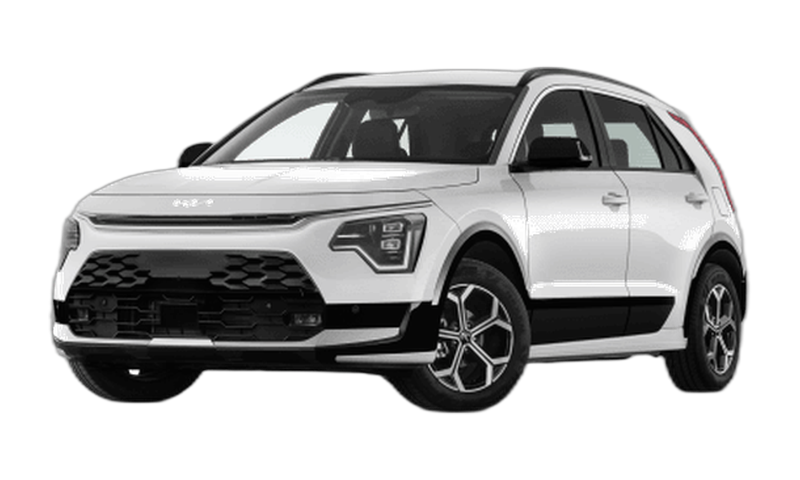
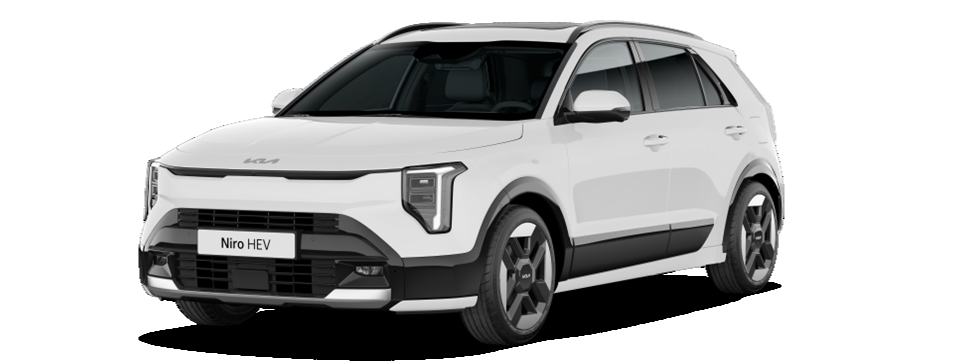
Landing Kia Niro HEV (oferta especial) con geobloqueo de Barcelona
- renting-kia-niro.html: matriz de cuotas real (IVA incluido), desde 340€/mes,
  foto del Niro HEV, servicios/ventajas, formulario a mtiagconsulting + WhatsApp
- functions/_middleware.js: bloquea la ficha para visitantes del area de
  Barcelona (Barcelones) via Cloudflare Pages Function; resto de España la ve
- Chip 'IVA incluido' en la tarjeta de precio
- Añadida al sitemap

Claude-Session: https://claude.ai/code/session_019TT5qAbRHVq3ySjbsjyFmR

diff --git a/renting-kia-niro.html b/renting-kia-niro.html
@@ -1,0 +1,142 @@
+<!DOCTYPE html>
+<html lang="es">
+<head>
+<meta charset="UTF-8">
+<meta name="viewport" content="width=device-width, initial-scale=1.0">
+<link rel="icon" href="/favicon.ico" sizes="any"><link rel="icon" type="image/svg+xml" href="/favicon.svg"><link rel="apple-touch-icon" href="/favicon.png">
+<title>Renting Kia Niro HEV desde 340€/mes — Oferta especial | MyRenting</title>
+<meta name="description" content="Oferta especial de renting del Kia Niro HEV desde 340€/mes (IVA incluido), todo incluido y sin entrada: seguro sin franquicia, mantenimiento, impuestos y asistencia. Entrega en toda España.">
+<meta name="robots" content="index, follow">
+<link rel="canonical" href="https://myrenting.es/renting-kia-niro.html">
+<meta property="og:title" content="Renting Kia Niro — Oferta especial | MyRenting">
+<meta property="og:description" content="Oferta especial de renting del Kia Niro, todo incluido y sin entrada. Entrega en toda España.">
+<meta property="og:type" content="website">
+<!-- PRICE-SCHEMA: actualizar lowPrice cuando haya precios -->
+<script type="application/ld+json">{"@context":"https://schema.org","@type":"Product","name":"Renting Kia Niro","description":"Oferta especial de renting del Kia Niro, todo incluido y sin entrada.","brand":{"@type":"Brand","name":"Kia"},"category":"suv","offers":{"@type":"AggregateOffer","lowPrice":"340","highPrice":"440","priceCurrency":"EUR","availability":"https://schema.org/InStock","seller":{"@type":"Organization","name":"MyRenting"}}}</script>
+<script type="application/ld+json">{"@context":"https://schema.org","@type":"FAQPage","mainEntity":[{"@type":"Question","name":"¿Qué incluye el renting del Kia Niro?","acceptedAnswer":{"@type":"Answer","text":"Seguro a todo riesgo, mantenimiento en red oficial, impuestos, ITV y asistencia en carretera 24h, en una cuota mensual fija y sin entrada."}},{"@type":"Question","name":"¿Hay entrega en toda España?","acceptedAnswer":{"@type":"Answer","text":"Sí, entregamos el Kia Niro en toda España tras formalizar el contrato."}},{"@type":"Question","name":"¿Puedo contratarlo como particular, autónomo o empresa?","acceptedAnswer":{"@type":"Answer","text":"Sí, las tres modalidades están disponibles; autónomos y empresas se benefician de ventajas fiscales."}}]}</script>
+<style>
+:root{--accent:#e8380d;--navy:#16224e;--ink:#1c2233;--ink2:#5a6072;--line:#e9e2d6;--bg:#f6f3ee;--panel:#fff}
+*{box-sizing:border-box}body{margin:0;background:var(--bg);color:var(--ink);font-family:-apple-system,BlinkMacSystemFont,"Segoe UI",Roboto,Helvetica,Arial,sans-serif;line-height:1.6}
+.mrnav{position:sticky;top:0;z-index:100;display:flex;align-items:center;gap:20px;background:#fff;border-bottom:1px solid #ece7e2;padding:0 32px;height:64px}
+.mrnav-logo{display:flex;align-items:center;gap:10px;text-decoration:none;flex-shrink:0}
+.mrnav-ic{width:34px;height:34px;border-radius:9px;background:#e8380d;color:#fff;display:flex;align-items:center;justify-content:center;font-size:16px;font-weight:900}
+.mrnav-tx{font-size:19px;font-weight:800;color:#17120f;letter-spacing:-.6px}.mrnav-tx span{color:#e8380d}
+.mrnav-links{display:flex;align-items:center;gap:4px;flex:1}
+.mrnav-links a{font-size:14px;font-weight:500;color:#5c534d;padding:6px 12px;border-radius:8px;text-decoration:none}
+.mrnav-links a:hover{color:#17120f;background:#f5f2ef}
+.mrnav-cta{background:#e8380d;color:#fff;text-decoration:none;font-size:13.5px;font-weight:700;padding:9px 18px;border-radius:10px;flex-shrink:0}
+@media(max-width:760px){.mrnav{padding:0 18px;gap:12px}.mrnav-links{display:none}}
+.wrap{max-width:900px;margin:0 auto;padding:0 24px}
+.crumb{font-size:13px;color:var(--ink2);padding:16px 0}.crumb a{color:var(--ink2)}
+h1{font-size:clamp(28px,5vw,40px);font-weight:850;letter-spacing:-.02em;margin:4px 0 8px;line-height:1.1}
+h1 em{font-style:normal;color:var(--accent)}
+.badge{display:inline-block;background:#fff5f2;color:#e8380d;border:1px solid #ffd9cd;border-radius:99px;padding:5px 14px;font-size:12px;font-weight:800;letter-spacing:.4px;margin-bottom:10px}
+.lede{font-size:17px;color:var(--ink2);max-width:60ch;margin:0 0 20px}
+.price-hero{background:var(--navy);color:#fff;border-radius:16px;padding:24px 26px;display:flex;align-items:center;justify-content:space-between;flex-wrap:wrap;gap:14px;margin-bottom:26px}
+.price-hero .lbl{font-size:13px;opacity:.85}
+.price-hero .big{font-size:36px;font-weight:850;letter-spacing:-.02em}.price-hero .big small{font-size:15px;font-weight:600;opacity:.8}
+.price-hero .iva{display:inline-block;background:rgba(255,255,255,.16);border:1px solid rgba(255,255,255,.3);color:#fff;font-size:12px;font-weight:700;padding:3px 10px;border-radius:99px;vertical-align:middle;margin-left:8px;letter-spacing:.3px}
+.car-photo{background:#fff;border:1px solid var(--line);border-radius:16px;padding:14px;margin-bottom:20px;text-align:center}
+.car-photo img{max-width:100%;height:auto;max-height:300px}
+.btn{background:var(--accent);color:#fff;border:none;border-radius:99px;padding:13px 24px;font-size:15px;font-weight:700;cursor:pointer;text-decoration:none;font-family:inherit;display:inline-block}
+h2{font-size:22px;font-weight:800;margin:30px 0 12px}
+p{color:var(--ink2)}
+table{width:100%;border-collapse:collapse;font-size:14px;background:#fff;border:1px solid var(--line);border-radius:12px;overflow:hidden}
+th,td{padding:12px 14px;text-align:left;border-bottom:1px solid var(--line)}
+th{background:var(--bg);font-size:12px;text-transform:uppercase;letter-spacing:.04em;color:var(--ink2)}
+tr:last-child td{border-bottom:none}td.p{font-weight:800;color:var(--accent);font-variant-numeric:tabular-nums}
+.inc{display:grid;grid-template-columns:repeat(3,1fr);gap:10px;margin:12px 0}
+.inc div{background:#fff;border:1px solid var(--line);border-radius:10px;padding:12px 14px;font-size:14px}.inc b{color:var(--ink)}
+@media(max-width:640px){.inc{grid-template-columns:1fr 1fr}}
+.form{background:#fff;border:1px solid var(--line);border-radius:16px;padding:24px;margin:26px 0}
+.form h2{margin-top:0}.form .row{display:grid;grid-template-columns:1fr 1fr;gap:12px}
+.form label{font-size:12px;font-weight:600;color:var(--ink2);display:block;margin-bottom:4px}
+.form input{width:100%;padding:11px 13px;border:1.5px solid var(--line);border-radius:9px;font-size:14px;font-family:inherit;margin-bottom:12px;outline:none}
+.form input:focus{border-color:var(--accent)}
+.form button{width:100%;background:var(--accent);color:#fff;border:none;padding:14px;border-radius:99px;font-size:15px;font-weight:700;cursor:pointer;font-family:inherit}
+.form .ok{display:none;text-align:center;padding:14px 0;color:#0f7a52;font-weight:700}
+.faq details{border-bottom:1px solid var(--line);padding:14px 0}.faq details:last-child{border-bottom:none}
+.faq summary{font-weight:700;cursor:pointer}.faq{background:#fff;border:1px solid var(--line);border-radius:12px;padding:4px 20px}
+footer{border-top:1px solid var(--line);padding:22px 0;font-size:13px;color:var(--ink2);margin-top:30px}
+.wafloat{position:fixed;bottom:20px;right:20px;z-index:400;width:56px;height:56px;border-radius:50%;background:#25D366;display:flex;align-items:center;justify-content:center;box-shadow:0 4px 14px rgba(0,0,0,.28)}
+</style>
+</head>
+<body>
+<nav class="mrnav">
+  <a href="/" class="mrnav-logo"><span class="mrnav-ic">M</span><span class="mrnav-tx">My<span>Renting</span></span></a>
+  <div class="mrnav-links"><a href="/">Ofertas</a><a href="/renting-autonomos.html">Aut&oacute;nomos</a><a href="/renting-empresas.html">Empresas</a><a href="/renting-electrico.html">El&eacute;ctrico</a><a href="/blog/">Blog</a></div>
+  <a href="#solicitar" class="mrnav-cta">Solicitar oferta</a>
+</nav>
+<div class="wrap">
+  <div class="crumb"><a href="/">Inicio</a> › Renting Kia Niro</div>
+  <span class="badge">OFERTA ESPECIAL</span>
+  <h1>Renting <em>Kia Niro HEV</em></h1>
+  <p class="lede">Kia Niro HEV (h&iacute;brido, etiqueta ECO) en una oferta especial de renting: todo incluido, sin entrada y con entrega en toda Espa&ntilde;a.</p>
+  <div class="car-photo"><img src="/img/modelos/kia-niro.png" alt="Renting Kia Niro HEV blanco" loading="eager"></div>
+  <div class="price-hero">
+    <div>
+      <div class="lbl">Cuota desde, todo incluido y sin entrada</div>
+      <div class="big">340&euro;<small>/mes</small> <span class="iva">IVA incluido</span></div>
+    </div>
+    <a class="btn" href="#solicitar">Solicitar oferta</a>
+  </div>
+
+  <h2>Precios del renting del Kia Niro HEV</h2>
+  <p>Cuota mensual seg&uacute;n el plazo y los kil&oacute;metros al a&ntilde;o. <strong>Precios con IVA incluido.</strong></p>
+  <table><thead><tr><th>Km/a&ntilde;o</th><th>36 meses</th><th>48 meses</th><th>60 meses</th></tr></thead><tbody>
+    <tr><td>5.000 km</td><td>355&euro;</td><td>349&euro;</td><td class="p">340&euro;</td></tr>
+    <tr><td>10.000 km</td><td>384&euro;</td><td>381&euro;</td><td>373&euro;</td></tr>
+    <tr><td>15.000 km</td><td>409&euro;</td><td>405&euro;</td><td>402&euro;</td></tr>
+    <tr><td>20.000 km</td><td>434&euro;</td><td>440&euro;</td><td>437&euro;</td></tr>
+  </tbody></table>
+
+  <h2>Qu&eacute; incluye (Kia Renting Plus)</h2>
+  <div class="inc">
+    <div><b>Seguro a todo riesgo</b> sin franquicia</div>
+    <div><b>Sustituci&oacute;n de neum&aacute;ticos</b> ilimitada</div>
+    <div><b>Mantenimiento y reparaciones</b> en red oficial Kia</div>
+    <div><b>Matriculaci&oacute;n e impuestos</b> incluidos</div>
+    <div><b>Asistencia 24h</b> en carretera</div>
+    <div><b>Gesti&oacute;n de multas</b> online</div>
+  </div>
+
+  <h2>Ventajas</h2>
+  <div class="inc">
+    <div><b>Cualquier conductor</b> cubierto, sin importar edad ni antig&uuml;edad del carnet</div>
+    <div><b>No figura en CIRBE</b>: no reduce tu capacidad de endeudamiento</div>
+    <div><b>Flexibilidad</b>: puedes variar kil&oacute;metros o servicios durante el contrato</div>
+  </div>
+
+  <div class="form" id="solicitar">
+    <h2>Solicita esta oferta del Kia Niro</h2>
+    <p>Te enviamos la propuesta personalizada sin compromiso. Entrega en toda Espa&ntilde;a.</p>
+    <form onsubmit="return enviarLead(event)">
+      <div class="row">
+        <div><label>Nombre *</label><input name="nombre" required placeholder="Tu nombre"></div>
+        <div><label>Tel&eacute;fono *</label><input type="tel" name="telefono" required placeholder="6XX XXX XXX"></div>
+      </div>
+      <label>Email *</label><input type="email" name="email" required placeholder="tu@email.com">
+      <input type="hidden" name="_subject" value="Lead Kia Niro (oferta especial)">
+      <input type="hidden" name="vehiculo" value="Kia Niro - oferta especial">
+      <button type="submit">Quiero esta oferta</button>
+      <div class="ok" id="lead-ok">&#10003; &iexcl;Solicitud enviada! Te contactamos en menos de 24h.</div>
+    </form>
+  </div>
+
+  <h2>Preguntas frecuentes</h2>
+  <div class="faq">
+    <details open><summary>&iquest;Qu&eacute; incluye el renting del Kia Niro?</summary><p>Seguro a todo riesgo sin franquicia, mantenimiento en red oficial, impuestos, ITV y asistencia en carretera 24h, en una cuota fija y sin entrada.</p></details>
+    <details><summary>&iquest;Hay entrega en toda Espa&ntilde;a?</summary><p>S&iacute;, entregamos el Kia Niro en toda Espa&ntilde;a tras formalizar el contrato.</p></details>
+    <details><summary>&iquest;Puedo contratarlo como particular, aut&oacute;nomo o empresa?</summary><p>S&iacute;, las tres modalidades est&aacute;n disponibles; aut&oacute;nomos y empresas se benefician de ventajas fiscales.</p></details>
+  </div>
+</div>
+<footer><div class="wrap">MyRenting · Comparador de renting con precios reales. Sin registro.</div></footer>
+<a class="wafloat" href="https://wa.me/34691766768?text=Hola%2C%20me%20interesa%20la%20oferta%20del%20Kia%20Niro" target="_blank" rel="noopener" aria-label="WhatsApp"><svg width="30" height="30" viewBox="0 0 24 24" fill="#fff"><path d="M12 2C6.5 2 2 6.5 2 12c0 1.8.5 3.4 1.3 4.9L2 22l5.3-1.4c1.4.8 3 1.2 4.7 1.2 5.5 0 10-4.5 10-10S17.5 2 12 2z"/></svg></a>
+<script>
+async function enviarLead(e){e.preventDefault();var form=e.target,data=new FormData(form);
+ try{await fetch('https://formsubmit.co/ajax/mtiagconsulting@gmail.com',{method:'POST',headers:{'Accept':'application/json'},body:data});}catch(err){}
+ form.querySelectorAll('input,button').forEach(function(el){el.style.display='none';});
+ document.getElementById('lead-ok').style.display='block';return false;}
+</script>
+</body>
+</html>

diff --git a/functions/_middleware.js b/functions/_middleware.js
@@ -1,0 +1,51 @@
+// Cloudflare Pages Function (middleware).
+// Bloquea la ficha del Kia Niro para visitantes del área de Barcelona (Barcelonès).
+// El resto de España y el extranjero la ven con normalidad.
+//
+// Nota: la geolocalización por IP no es 100% precisa (VPN, IP de operador móvil).
+// Cloudflare expone país siempre; ciudad/región según plan. Ajustable abajo.
+
+const PROTEGIDAS = ["/renting-kia-niro.html", "/renting-kia-niro"];
+
+// Municipios del Barcelonès (+ Barcelona ciudad) para el bloqueo.
+const CIUDADES_BLOQUEADAS = [
+  "barcelona", "l'hospitalet de llobregat", "hospitalet de llobregat", "hospitalet",
+  "badalona", "santa coloma de gramenet", "sant adria de besos", "sant adrià de besòs"
+];
+
+function bloqueado(cf) {
+  const city = (cf && cf.city ? cf.city : "").toLowerCase();
+  // Coincidencia por ciudad (Barcelonès). Para ampliar a toda Cataluña,
+  // descomenta la línea de región de abajo.
+  if (CIUDADES_BLOQUEADAS.some(c => city.includes(c))) return true;
+  // const region = (cf && cf.region ? cf.region : "").toLowerCase();
+  // if (region.includes("catal")) return true;
+  return false;
+}
+
+const HTML_BLOQUEO = `<!DOCTYPE html><html lang="es"><head><meta charset="UTF-8">
+<meta name="viewport" content="width=device-width, initial-scale=1.0">
+<meta name="robots" content="noindex">
+<title>Oferta no disponible en tu zona | MyRenting</title>
+<style>body{margin:0;font-family:-apple-system,BlinkMacSystemFont,"Segoe UI",Roboto,sans-serif;background:#f6f3ee;color:#1c2233;display:flex;min-height:100vh;align-items:center;justify-content:center;text-align:center;padding:24px}
+.box{max-width:520px}.ic{width:64px;height:64px;border-radius:16px;background:#e8380d;color:#fff;font-weight:900;font-size:30px;display:flex;align-items:center;justify-content:center;margin:0 auto 20px}
+h1{font-size:26px;font-weight:850;letter-spacing:-.5px;margin:0 0 10px}p{color:#5a6072;font-size:16px;line-height:1.6;margin:0 0 22px}
+a{display:inline-block;background:#e8380d;color:#fff;text-decoration:none;padding:13px 26px;border-radius:99px;font-weight:700}</style>
+</head><body><div class="box"><div class="ic">M</div>
+<h1>Esta oferta no está disponible en tu zona</h1>
+<p>Esta promoción del Kia Niro no está disponible actualmente en el área de Barcelona. Puedes ver el resto de nuestras ofertas de renting con entrega en toda España.</p>
+<a href="/">Ver todas las ofertas &rarr;</a></div></body></html>`;
+
+export async function onRequest(context) {
+  const { request, next } = context;
+  const url = new URL(request.url);
+  if (PROTEGIDAS.includes(url.pathname)) {
+    if (bloqueado(request.cf || {})) {
+      return new Response(HTML_BLOQUEO, {
+        status: 200,
+        headers: { "content-type": "text/html; charset=utf-8", "cache-control": "no-store" }
+      });
+    }
+  }
+  return next();
+}
